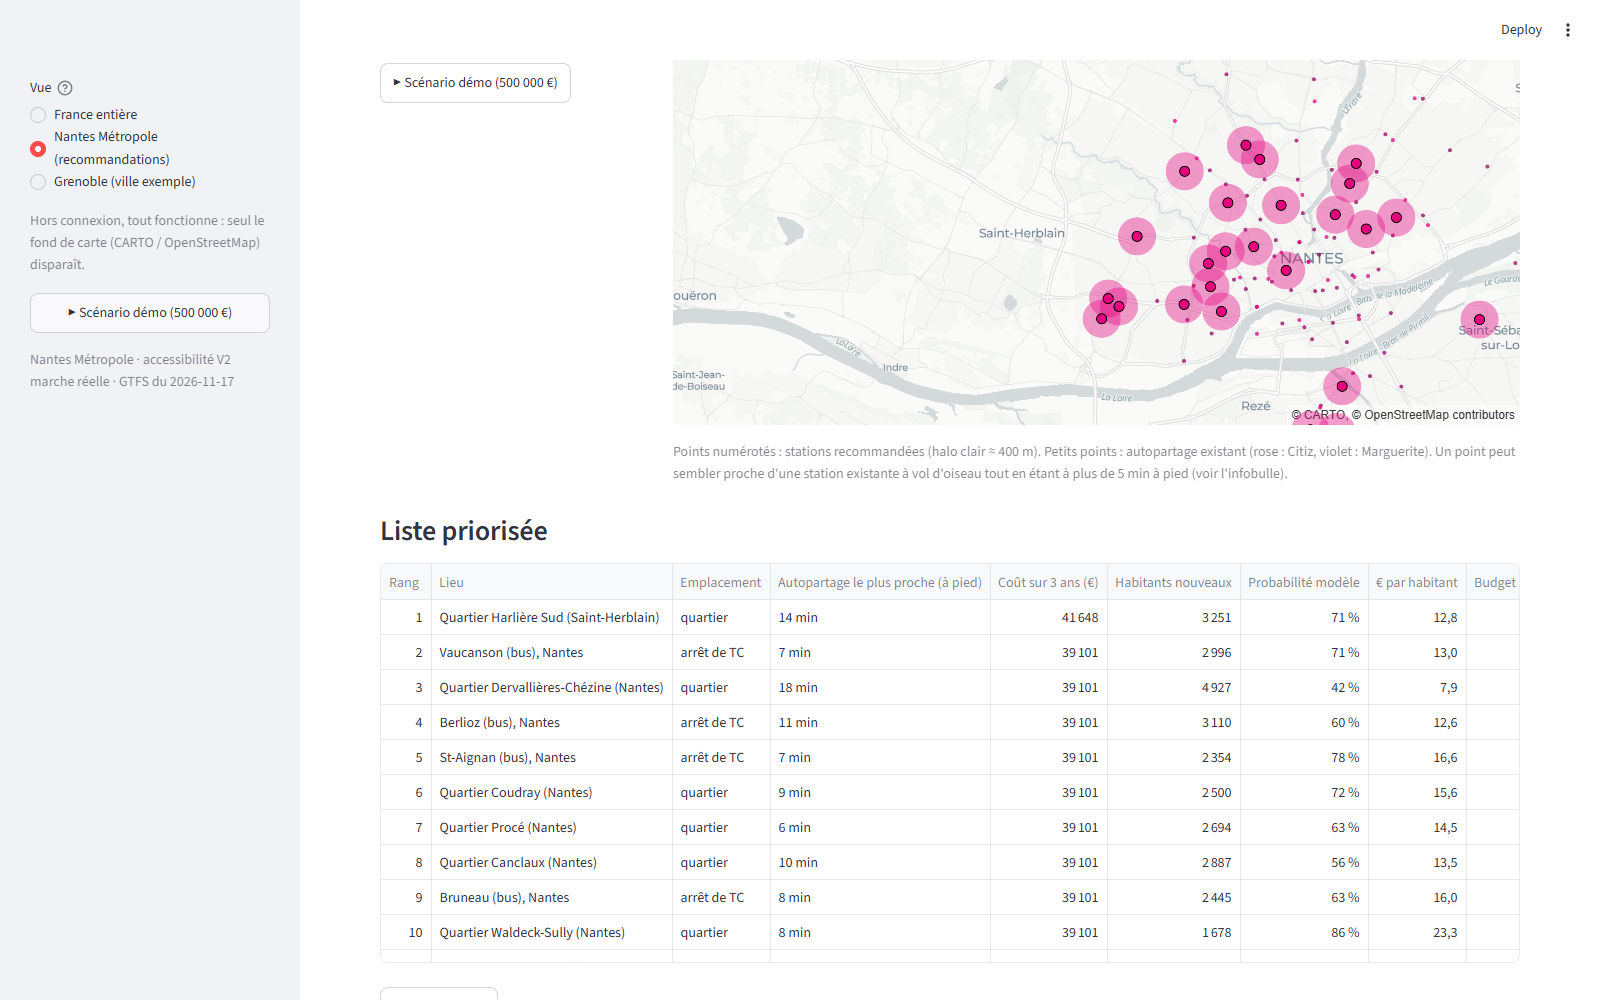
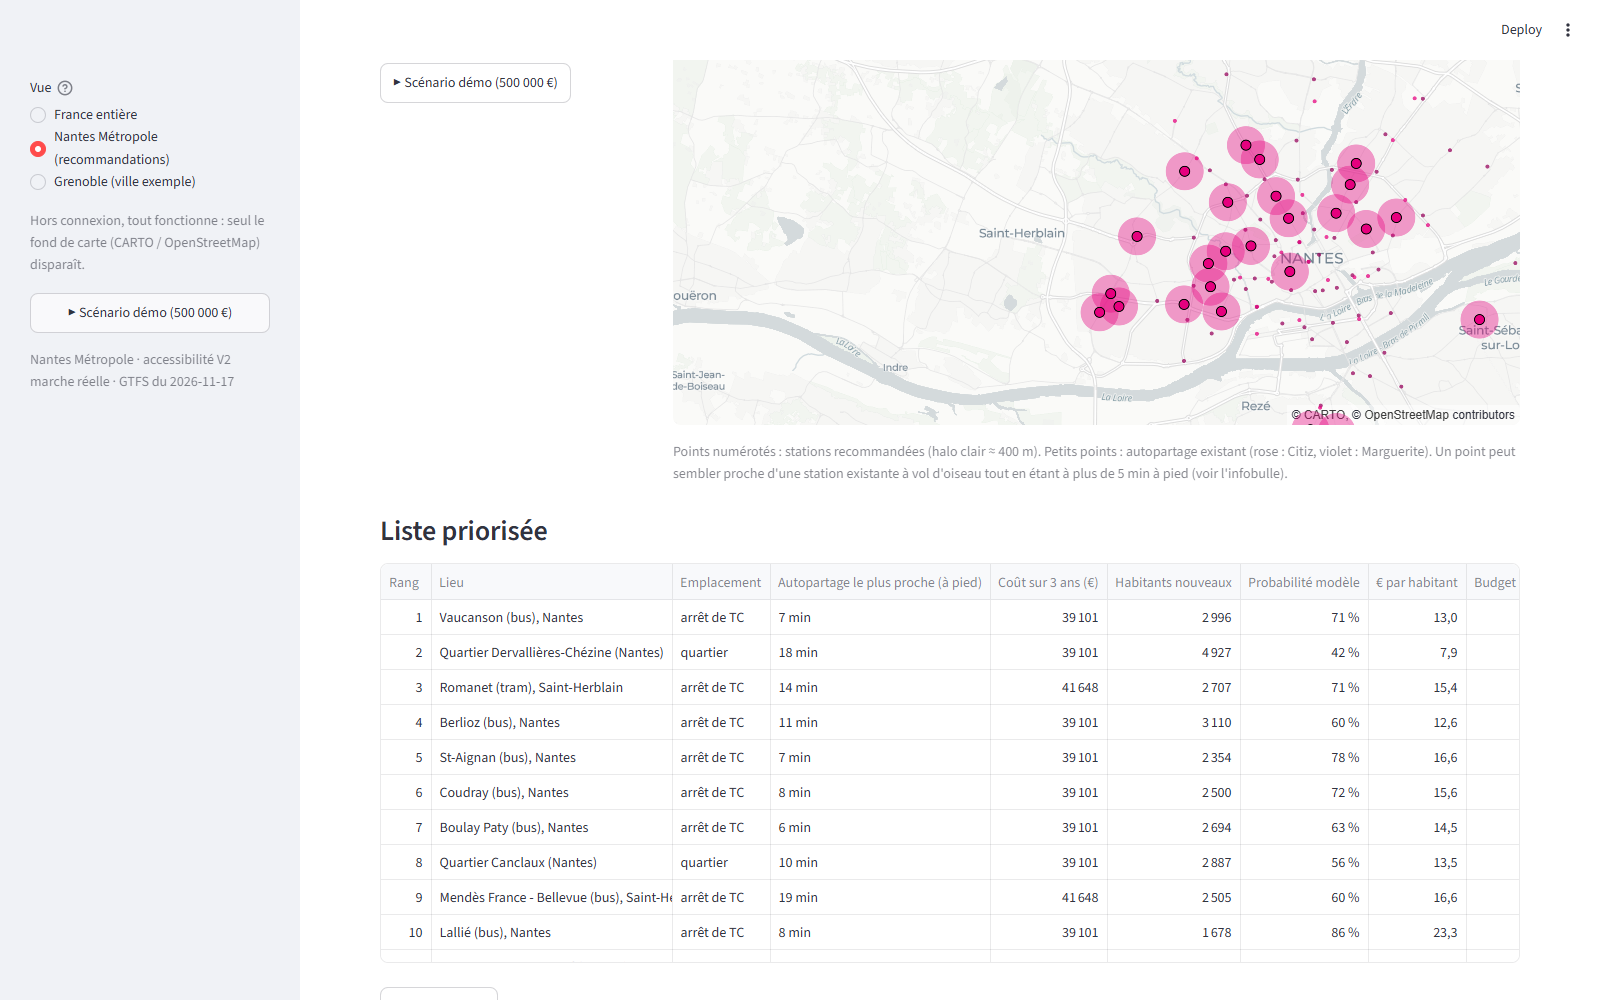
Démo, point 5 : docs/DEMO.md réécrit (scénario de 3 min, phrases, plan B), scénario démo = slides
- DEMO.md : lancement (lancer_demo.bat), préchauffage, scénario France -> Nantes -> Scénario démo -> curseur
  1 M€ -> liste priorisée -> Validation avec les phrases à dire (chiffres officiels V2), réponses aux
  questions probables du jury, plan B (captures slides/img/demo/ dans l'ordre), dépannage.
- Bouton « Scénario démo » en ILP (précalculé, instantané) : mêmes 12 stations que l'image des slides
  et l'encadré officiel (le glouton en diffère d'une station, à habitants égaux).
- Messages « données absentes » : la Release donnees-v2 contient les exports partagés, pas les fichiers
  de l'appli (data/processed/) ; on renvoie à la reconstruction et au plan B. README : Release donnees-v2.

diff --git a/app/app.py b/app/app.py
@@ -39,7 +39,7 @@ VIEWS = {"France entière": None, "Nantes Métropole (recommandations)": "nantes
 MIN_MENAGES = 11
 TO_WGS84 = Transformer.from_crs(2154, 4326, always_xy=True)
 FIG = ROOT / "docs" / "figures"
-DEMO = {"budget": 500_000, "equity": 0.5, "method": "glouton"}       # bouton « Scénario démo »
+DEMO = {"budget": 500_000, "equity": 0.5, "method": "ilp"}           # bouton « Scénario démo » (= slides)
 PRECALC = (250_000, 500_000, 1_000_000)                               # budgets lus directement (build_reco)
 
 
@@ -124,8 +124,8 @@ folder = city_folder(ville)
 if not available(folder):
     missing = [f for f in FILES if not (folder / f).exists()]
     st.error(f"Données de {ville} absentes ({', '.join(missing)} dans `data/processed/{ville}/`). "
-             f"Les reconstruire : `python -m scripts.build_all --ville {ville}` (≈ 5 min), ou télécharger la Release "
-             "« donnees-v2 » du dépôt (voir docs/RECUPERER_LES_DONNEES.md).")
+             f"Les reconstruire : `python -m scripts.build_all --ville {ville}` (≈ 5 min, données brutes requises : "
+             "docs/RECUPERER_LES_DONNEES.md). En attendant : captures de slides/img/demo/.")
     st.stop()
 d = data(str(folder))
 meta = d["meta"]
@@ -133,7 +133,7 @@ version = meta.get("version_acces", "v1")
 reco = has_reco(folder)
 if reco:
     st.sidebar.button("▶ Scénario démo (500 000 €)", on_click=demo_scenario, width="stretch",
-                      help="Remet l'onglet « Où investir ? » sur le scénario de référence : 500 000 €, équité 0,5, glouton.")
+                      help="Remet l'onglet « Où investir ? » sur le scénario des slides : 500 000 €, équité 0,5, ILP optimal.")
 st.sidebar.caption(f"{meta.get('zone', '')} · accessibilité {'V2 marche réelle' if version == 'v2' else 'V1 vol d’oiseau'}"
                    f" · GTFS du {meta.get('jour_type_gtfs', '?')}")
 
@@ -252,7 +252,7 @@ with tab3:
                                help="0 : maximise habitants nouvellement desservis × probabilité du modèle. Plus haut : "
                                     "bonus aux quartiers où les ménages sont plus modestes ou sans voiture.")
             method = st.radio("Méthode", ["glouton", "ilp"], key="method",
-                              format_func={"glouton": "Glouton (instantané)", "ilp": "ILP optimal (≤ 20 s)"}.get)
+                              format_func={"glouton": "Glouton (rapide)", "ilp": "ILP optimal"}.get)
             st.button("▶ Scénario démo (500 000 €)", on_click=demo_scenario, key="demo_tab")
 
         pre = precomputed(str(folder), version, budget, round(equity, 2), method) if budget in PRECALC else None

diff --git a/app/national.py b/app/national.py
@@ -62,8 +62,8 @@ def render() -> None:
     missing = [f.name for f in files if not f.exists()]
     if missing:
         st.error(f"Fichiers nationaux absents ({', '.join(missing)} dans `data/processed/national/app/`). "
-                 "Les reconstruire : `python -m src.national.build_all` (≈ 5 min), ou télécharger la Release "
-                 "« donnees-v2 » du dépôt (voir docs/RECUPERER_LES_DONNEES.md).")
+                 "Les reconstruire : `python -m src.national.build_all` (≈ 5 min, données brutes requises : "
+                 "docs/RECUPERER_LES_DONNEES.md). En attendant : captures de slides/img/demo/.")
         return
     st.title("France entière · accès à la mobilité à 5 min à pied")
     st.markdown("**Cette carte montre**, pour chaque département ou intercommunalité, la part des habitants qui ont "

diff --git a/docs/DEMO.md b/docs/DEMO.md
@@ -1,41 +1,77 @@
 # Démo en 3 minutes
 
-Scénario clic par clic de l'application Streamlit pour la soutenance. Chiffres tirés de
-[`chiffres_cles.md`](chiffres_cles.md) (version de démo : tag `demo-v1` puis branche `data-pipeline`).
+Scénario clic par clic de l'application pour la soutenance, avec les phrases à dire. Tous les chiffres viennent
+de l'encadré « Chiffres officiels pour les slides » de [`chiffres_cles.md`](chiffres_cles.md) (V2, marche réelle).
+Version de secours : tag `demo-v1`.
 
-## Avant de passer (5 min avant)
+## Avant de passer (10 min avant)
 
-```bash
-cd hackathon-mobility-citiz
-.venv\Scripts\activate                      # Linux / Mac : source .venv/bin/activate
-streamlit run app/app.py                    # ouvre http://localhost:8501
-```
+1. **Lancer** : double-clic sur `lancer_demo.bat` à la racine du dépôt. Le navigateur s'ouvre sur
+   <http://localhost:8501> en 10 s environ. En ligne de commande, ça donne :
 
-- Laisser l'appli **ouverte sur la vue France** (premier chargement ≈ 5 s, ensuite instantané).
-- Ouvrir une fois la vue Nantes puis revenir sur France : les données sont alors en cache.
-- Navigateur en plein écran, zoom 90 %. Couper les notifications.
+   ```bat
+   .venv\Scripts\python -m streamlit run app\app.py
+   ```
+
+2. **Préchauffer** : ouvrir une fois la vue Nantes (onglets 1 à 5), puis revenir sur « France entière ».
+   Ensuite, tout s'affiche en moins d'une seconde.
+3. Navigateur en plein écran (F11), zoom 90 %, notifications coupées. Ouvrir aussi le dossier `slides\img\demo\`
+   dans l'explorateur (plan B).
+4. **Internet** : seul le fond de carte (CARTO / OpenStreetMap) en a besoin. Sans connexion, tout fonctionne et
+   les cartes s'affichent sur fond blanc.
 
 ## Le scénario (≈ 3 min)
 
 | Temps | Clic | Ce qu'on dit |
 |---|---|---|
-| 0:00 | Barre latérale **Vue** = « France entière ». Carte par **Départements**, indicateur « Part de la population sans aucune option à 5 min ». | « Un Français sur quatre (25,9 %) n'a aucune option de mobilité à 5 minutes à pied, même à vol d'oiseau. Bleu = peu d'habitants sans option, rouge = beaucoup. » |
-| 0:25 | **Échelle** = « EPCI », puis descendre au tableau « Classement des EPCI… potentiel Citiz ». | « On a classé 276 intercommunalités selon la densité, la part de ménages sans voiture et l'autopartage existant. Nice est 1ʳᵉ mais c'est notre contre-exemple : l'autopartage y est invisible en open data. » |
-| 0:50 | **Vue** = « Nantes Métropole (recommandations) ». Onglet **1 · Carte d'accès**, échelle IRIS. | « Nantes, notre ville : 689 000 habitants. En marche réelle, 80,6 % ont une option à 5 min, et seulement 19 % un autopartage (23 Citiz, 61 Marguerite). » |
-| 1:10 | Onglet **2 · Offre et population desservie** : survoler un arrêt, montrer le tableau « Points dont dépendent le plus d'habitants ». | « Pour chaque arrêt et station : combien d'habitants à 5 min, et combien n'ont aucune autre option. » |
-| 1:30 | Onglet **3 · Où investir ?** : budget 500 000 €, équité 0,5, méthode « Glouton ». | « Avec 500 000 €, 12 stations Citiz : +35 000 habitants à 5 min d'un autopartage, 14 € par habitant sur 3 ans, 17 tonnes de CO₂ évitées par an, estimation prudente. » |
-| 1:50 | Faire glisser **Budget** à 1 000 000 €, puis **Méthode** = « ILP optimal » (≈ 5 s). | « Le curseur recalcule en direct : 25 stations, +59 000 habitants. L'ILP prouve l'optimalité ; ici le glouton fait presque aussi bien. » |
-| 2:10 | Descendre à la **Liste priorisée**, montrer la colonne « probabilité modèle », cliquer **Exporter en CSV**. | « Une liste priorisée exportable : quartier, coût, habitants gagnés, probabilité que Citiz s'y installe selon le modèle. » |
-| 2:25 | Onglet **4 · Validation**. | « Le modèle n'a jamais vu le réseau Citiz de Grenoble : il y retrouve 89 % des stations dans les 20 % de carreaux qu'il juge les plus favorables (82 % avec la densité seule). Et la marche réelle compte : à vol d'oiseau, on surestime l'offre de 80 %. » |
-| 2:50 | Conclusion (rester sur Validation). | « Données ouvertes, méthode reproductible en une commande, limites assumées : le modèle apprend où Citiz s'est installé, pas la demande pure ; le surcoût de risque est une hypothèse à valider avec Citiz. » |
+| 0:00 | **Vue** = « France entière » (écran d'accueil). | « Voici la France entière, carreau de 200 m par carreau de 200 m. **Un habitant sur quatre (25,9 %) n'a aucune option de mobilité à 5 minutes à pied** : ni bus, ni tram, ni vélo, ni voiture partagée. Et c'est une estimation optimiste, à vol d'oiseau. » |
+| 0:25 | **Vue** = « Nantes Métropole ». Onglet **1 · Carte d'accès**. | « Nantes, notre ville : 689 000 habitants. On mesure ici la vraie marche, sur les rues et les chemins. **80,6 %** des habitants ont une option à 5 minutes, mais **seulement 19 % ont une voiture partagée** à 5 minutes. Les zones bleues ne sont pas des quartiers à problème : ce sont des **potentiels d'amélioration**. » |
+| 0:55 | Barre latérale : **▶ Scénario démo (500 000 €)**, puis onglet **3 · Où investir ?**. | « Question de Citiz : avec 500 000 €, où ouvrir des stations ? L'optimiseur choisit **12 stations**. **35 000 habitants** de plus se retrouvent à 5 minutes à pied d'une voiture partagée : la couverture passe de **19,0 % à 24,1 %**, pour **13,6 € par habitant** sur 3 ans. » |
+| 1:25 | Survoler une station (ex. n° 2, Vaucanson). | « Pour chaque station : le quartier, le coût, les habitants gagnés, et la distance à pied jusqu'à l'autopartage le plus proche. Ici 7 minutes : sur la carte, elle paraît proche d'une station existante, mais à pied, il faut faire le tour. » |
+| 1:40 | Faire glisser **Budget** jusqu'à **1 000 000 €**. | « Si le budget double : 25 stations, 59 000 habitants gagnés, 27,6 % de couverture. Chaque euro supplémentaire rapporte un peu moins : on voit où s'arrêter. » |
+| 2:00 | Descendre à la **Liste priorisée**. | « Ce que Citiz emporte : une liste priorisée, exportable en CSV, avec pour chaque emplacement le coût et la probabilité, selon notre modèle, qu'une station y fonctionne. » |
+| 2:15 | Onglet **4 · Validation**. | « Peut-on faire confiance au modèle ? On lui a caché tout le réseau Citiz de Grenoble. Il retrouve **89 % des stations** dans les 20 % de carreaux qu'il juge les plus favorables, contre 82 % avec la densité seule. Et la marche réelle compte : à vol d'oiseau, on surestime l'offre de 80 %. » |
+| 2:45 | Conclusion (rester sur Validation). | « Données 100 % ouvertes, recalculables en une commande, limites assumées : le modèle apprend où Citiz s'est déjà installé, et le surcoût lié au risque de vol est une hypothèse à valider avec Citiz. » |
+
+Retour au point de départ à tout moment : bouton **▶ Scénario démo** (500 000 €, équité 0,5, ILP, comme dans
+les slides).
+
+## Si le jury demande…
+
+| Question | Réponse courte | Où le montrer |
+|---|---|---|
+| « Pourquoi cette station si près d'une station existante ? » | La règle est 5 min **à pied réelles**. Vaucanson : 358 m à vol d'oiseau, mais 508 m à pied (≈ 7 min). | Infobulle (onglet 3) ; onglet 5, « Pourquoi une station… » |
+| « Glouton ou ILP ? » | L'ILP trouve l'optimum exact du score ; le glouton fait aussi bien à 500 000 € (34 979 habitants dans les deux cas). | Onglet 3, choix « Méthode » |
+| « Et l'équité ? » | Curseur « Poids de l'équité » : à Nantes, la sélection ne change pas (vérifié de 0 à 2), car les zones denses non couvertes sont aussi celles des ménages modestes ou sans voiture. | Onglet 3 ; `chiffres_cles.md`, section 6 |
+| « Le modèle, c'est quoi ? » | LightGBM sur 313 000 carreaux, 106 intercommunalités ; AUC 0,922 sur les 15 réseaux, chaque réseau étant prédit sans l'avoir vu. | Onglet 4 (tableau par réseau, SHAP) |
+| « Les formules ? » | Options accessibles, 2SFCA, score et contraintes de l'optimiseur, surcoût de risque. | Onglet 5 |
+
+## Plan B : les captures
+
+Si l'appli ne démarre pas, montrer dans l'ordre les images de `slides\img\demo\` (visionneuse Windows, flèche droite) :
+
+| Étape du scénario | Capture |
+|---|---|
+| France entière | `01_france.png` |
+| Nantes, carte d'accès | `02_nantes_carte_acces.png` |
+| (offre et population desservie, si on a le temps) | `03_nantes_offre_desservie.png` |
+| Scénario démo 500 000 € | `04_nantes_ou_investir_500k.png` |
+| Budget 1 000 000 € | `05_nantes_ou_investir_1M.png` |
+| Liste priorisée | `06_nantes_liste_priorisee.png` |
+| Validation | `07_validation.png`, `08_validation_reseaux_shap.png` |
+| Méthode et limites (questions) | `09_methode.png`, `10_methode_limites.png` |
+| Grenoble, ville exemple | `11_grenoble_carte_acces.png` |
+
+Pour régénérer les captures (appli fermée), lancer `python -m scripts.captures_demo`, en ajoutant `--hors-ligne`
+pour vérifier le fonctionnement sans Internet.
 
 ## Si l'appli ne démarre pas
 
 | Symptôme | Action |
 |---|---|
-| `streamlit` introuvable | Activer le venv : `.venv\Scripts\activate`, puis `python -m streamlit run app/app.py`. |
-| Port occupé | `streamlit run app/app.py --server.port 8502`. |
-| Message « Données de nantes absentes » ou « Fichiers nationaux absents » | Données non construites sur ce PC : `python -m src.national.build_all`, `python -m src.model.features`, `python -m src.model.train`, puis `python -m scripts.build_all --ville nantes` et `--ville grenoble` (≈ 12 min au total ; voir `README.md`). |
-| Erreur Python après une modification de dernière minute | Revenir à la version de secours : `git stash` puis `git checkout demo-v1` (les données de `data/processed/` restent compatibles). |
-| Rien ne marche (PC de secours sans données) | Montrer les images de `slides/img/` (cartes France, Grenoble V1/V2, Nantes recommandations, SHAP) et la carte interactive `data/share/france/carte_france_departements.html` (double-clic, fonctionne sans Python). |
-| ILP trop lent en direct | Rester en méthode « Glouton » : même résultat à 0,8 % près sur 1 M€. |
+| `lancer_demo.bat` affiche « Environnement Python absent » | Plan B (captures). Pour réinstaller : `python -m venv .venv` puis `.venv\Scripts\python -m pip install -r requirements.txt`. |
+| Message rouge « Données … absentes » dans l'appli | Plan B. L'appli lit `data/processed/` (jamais versionné) : copier ce dossier depuis le PC qui a servi aux répétitions, ou tout reconstruire depuis les données brutes (`docs/RECUPERER_LES_DONNEES.md`, ≈ 30 min). La Release `donnees-v2` contient les exports partagés (CSV, GPKG, cartes HTML), pas les fichiers de l'appli. |
+| Port 8501 occupé | Streamlit prend automatiquement le port suivant (8502) : lire l'adresse affichée dans la fenêtre noire. |
+| Erreur Python après une modification de dernière minute | `git stash`, puis `git checkout demo-v1`. Les données de `data/processed/` restent compatibles. |
+| Pas d'Internet | Rien à faire : seul le fond de carte disparaît. |
+| Calcul lent sur un budget inhabituel | Rester sur 250 000, 500 000 ou 1 000 000 € (instantanés), ou choisir « Glouton (rapide) ». |

diff --git a/README.md b/README.md
@@ -84,8 +84,8 @@ Pour collecter l'historique d'usage des stations Citiz (à laisser tourner) :
 
 ### Données partagées (sans rien installer)
 
-- **Zips de données nettoyées** : Release GitHub `donnees-v1` (Grenoble ≈ 2 Mo, France entière ≈ 20 Mo,
-  agrégats seulement), ou `data/share/` après l'export.
+- **Zips de données nettoyées** : Release GitHub `donnees-v2` (Grenoble ≈ 3,3 Mo, Nantes ≈ 2,6 Mo, France entière
+  ≈ 20 Mo, agrégats seulement ; `donnees-v1` reste disponible), ou `data/share/` après l'export.
 - **Dictionnaire des données** : [`data/share/DICTIONNAIRE_DONNEES.md`](data/share/DICTIONNAIRE_DONNEES.md).
 - **Cartes HTML** (double-clic) : `data/share/carte_apercu.html` (Grenoble),
   `data/share/france/carte_france_departements.html` (France).
